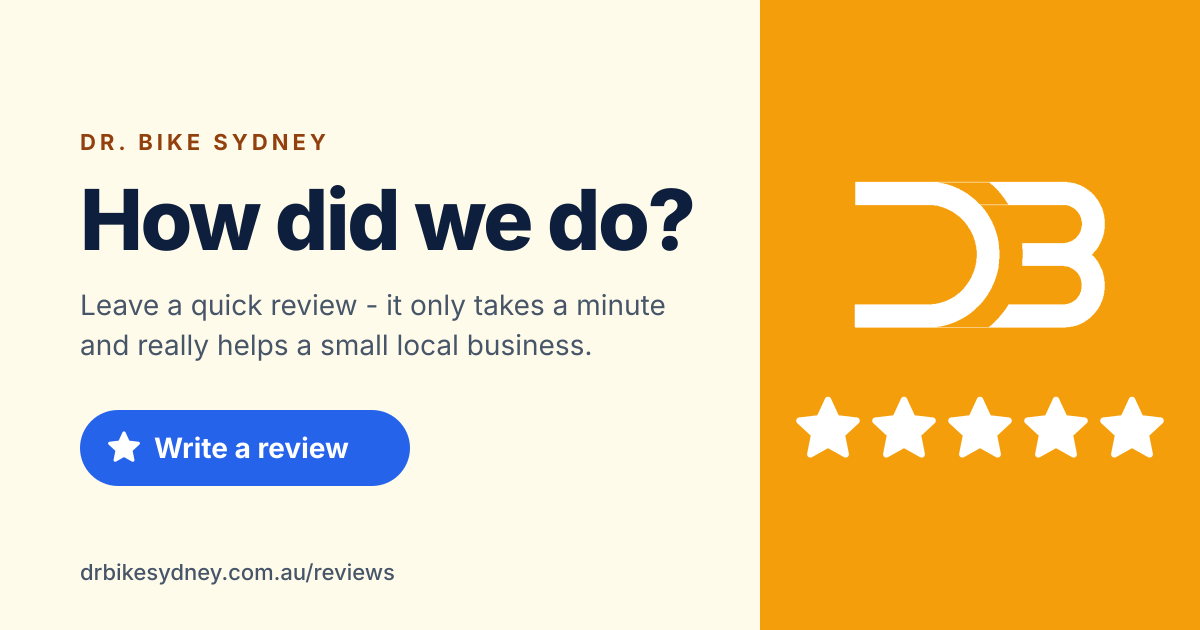
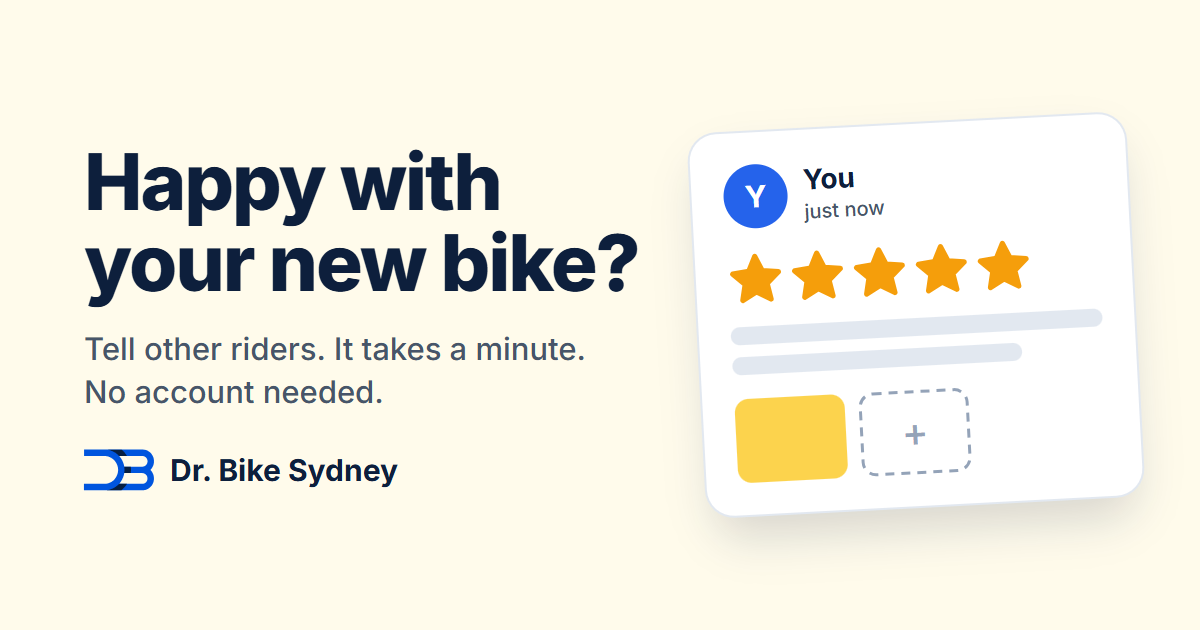
fix(reviews): the link preview Diego chose - "Happy with your new bike?" and a review card
Diego, 2026-11-20, out of five ideas: the question on the left - "Happy
with your new bike? Tell other riders. It takes a minute. No account
needed." - and a tilted review card like the one the client is about to
write. No URL in the image (Messages prints the domain under it).

- Built by scripts/build-brand-assets.mjs like the rest of the set (#611);
  the amber icons from #611 are unchanged.
- og:title "Leave a review for Dr. Bike Sydney" (shown under the image),
  og:description and alt to match, ?v=2 on the image because WhatsApp and
  Facebook cache a preview by its URL.
- Home-screen label "Reviews", like "DrBike Admin" / "DrBike Mech" -
  the title alone truncates to "Customer Re...".

diff --git a/reviews.html b/reviews.html
@@ -7,14 +7,18 @@
 <title>Customer Reviews | Dr. Bike Sydney - Mobile Bike Repair</title>
 <meta name="description" content="Read what Sydney riders say about Dr. Bike Sydney's mobile bike repairs, and leave your own review with stars and photos. No account needed.">
 <link rel="canonical" href="https://drbikesydney.com.au/reviews">
-<meta property="og:title" content="Customer Reviews | Dr. Bike Sydney">
-<meta property="og:description" content="Reviews from Sydney riders - and a place to leave yours, with photos.">
+<!-- This is the link Diego texts a client after a job: Messages shows the
+     image with og:title under it, so both ask for the review. ?v= because
+     WhatsApp and Facebook cache a preview image by its URL. -->
+<meta property="og:title" content="Leave a review for Dr. Bike Sydney">
+<meta property="og:description" content="Happy with your new bike? Tell other riders. It takes a minute. No account needed.">
 <meta property="og:url" content="https://drbikesydney.com.au/reviews">
 <meta property="og:type" content="website">
-<meta property="og:image" content="https://drbikesydney.com.au/og-reviews.png">
+<meta property="og:image" content="https://drbikesydney.com.au/og-reviews.png?v=2">
 <meta property="og:image:width" content="1200">
 <meta property="og:image:height" content="630">
-<meta property="og:image:alt" content="How did we do? Leave a quick review for Dr. Bike Sydney">
+<meta property="og:image:alt" content="Happy with your new bike? A five-star review card from Dr. Bike Sydney">
+<meta name="apple-mobile-web-app-title" content="Reviews">
 <!-- Amber with five stars, not the client app's white icon: this page gets
      saved to home screens and sent to customers on its own. Built by
      scripts/build-brand-assets.mjs. -->
